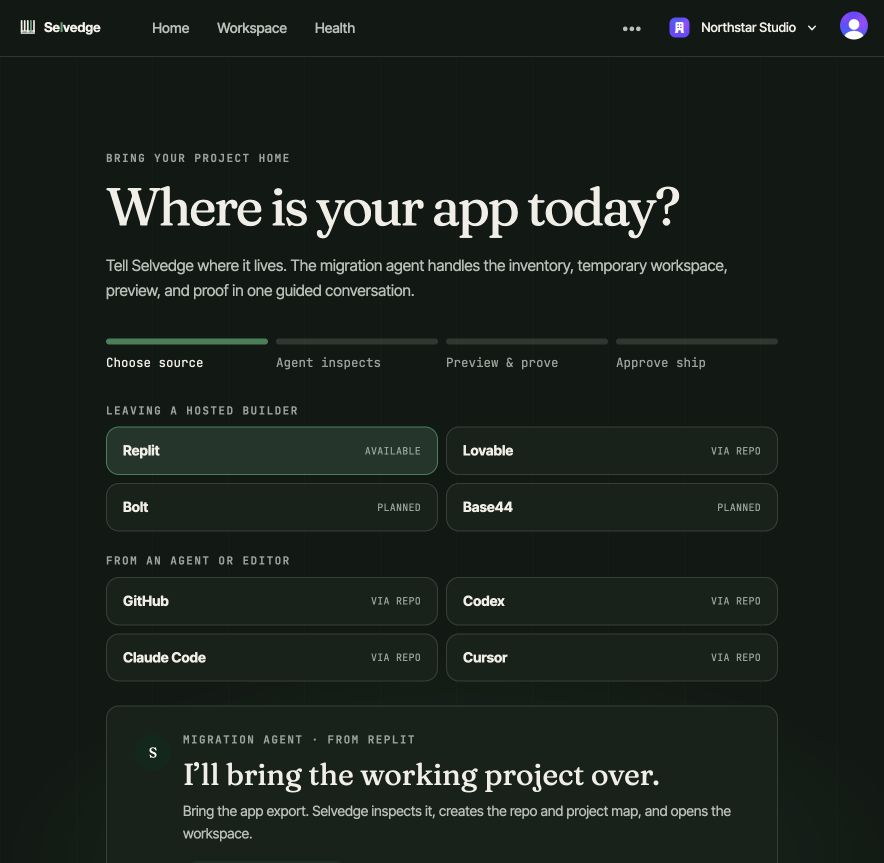
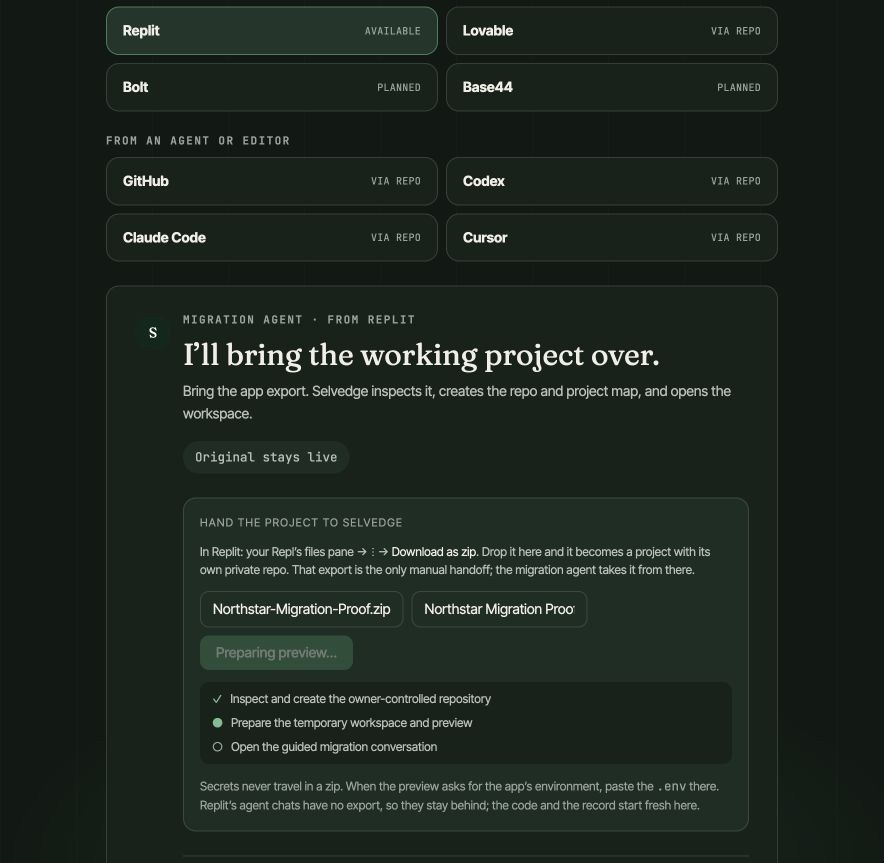
Support static hosted migration previews

diff --git a/src/server/connectors/railway/provision.ts b/src/server/connectors/railway/provision.ts
@@ -11,7 +11,7 @@ import { railwayGql, type RailwayTarget } from './client.js';
  * a Vite/web package over API or utility packages. Independent verification
  * remains responsible for proving that the chosen surface actually works.
  */
-export const PREVIEW_START_COMMAND = `if node -e "const s=require('./package.json').scripts||{};process.exit(s.dev?0:1)"; then npm run dev; elif [ -f "artifacts/$SELVEDGE_PROJECT_ID/package.json" ]; then pnpm --dir "artifacts/$SELVEDGE_PROJECT_ID" run dev --port "$PORT"; else PREVIEW_DIR="$(node -e 'const fs=require("fs"),path=require("path");const root="artifacts";const found=fs.existsSync(root)?fs.readdirSync(root).flatMap((name)=>{const file=path.join(root,name,"package.json");try{const pkg=JSON.parse(fs.readFileSync(file,"utf8"));if(!pkg.scripts?.dev)return[];const vite=Boolean(pkg.dependencies?.vite||pkg.devDependencies?.vite);return[{dir:path.join(root,name),vite}]}catch{return[]}}).sort((a,b)=>Number(b.vite)-Number(a.vite)||a.dir.localeCompare(b.dir)):[];process.stdout.write(found[0]?.dir||"")')"; if [ -n "$PREVIEW_DIR" ]; then pnpm --dir "$PREVIEW_DIR" run dev --port "$PORT"; else echo 'No development start contract found' >&2; exit 1; fi; fi`;
+export const PREVIEW_START_COMMAND = `if node -e "const s=require('./package.json').scripts||{};process.exit(s.dev?0:1)"; then npm run dev; elif [ -f "artifacts/$SELVEDGE_PROJECT_ID/package.json" ]; then pnpm --dir "artifacts/$SELVEDGE_PROJECT_ID" run dev --port "$PORT"; else PREVIEW_DIR="$(node -e 'const fs=require("fs"),path=require("path");const root="artifacts";const found=fs.existsSync(root)?fs.readdirSync(root).flatMap((name)=>{const file=path.join(root,name,"package.json");try{const pkg=JSON.parse(fs.readFileSync(file,"utf8"));if(!pkg.scripts?.dev)return[];const vite=Boolean(pkg.dependencies?.vite||pkg.devDependencies?.vite);return[{dir:path.join(root,name),vite}]}catch{return[]}}).sort((a,b)=>Number(b.vite)-Number(a.vite)||a.dir.localeCompare(b.dir)):[];process.stdout.write(found[0]?.dir||"")')"; if [ -n "$PREVIEW_DIR" ]; then pnpm --dir "$PREVIEW_DIR" run dev --port "$PORT"; else STATIC_DIR="$(node -e 'const fs=require("fs");const dirs=["dist","build","out","public","."];process.stdout.write(dirs.find((dir)=>fs.existsSync(dir+"/index.html"))||"")')"; if [ -n "$STATIC_DIR" ]; then npx -y serve -l "tcp://0.0.0.0:$PORT" "$STATIC_DIR"; else echo 'No development start contract or static index found' >&2; exit 1; fi; fi; fi`;
 
 /**
  * The Railway WRITE side — creating a service for an app Selvedge built, giving

diff --git a/src/server/preview/railway.ts b/src/server/preview/railway.ts
@@ -15,7 +15,7 @@ function decode(id: string): DurableId { return JSON.parse(Buffer.from(id, 'base
 // Railpack runs this override in a shell, so keep all common JS managers local
 // to the temporary service instead of teaching Selvedge a project-specific
 // package-manager preference.
-export const PREVIEW_INSTALL_COMMAND = "if [ -f pnpm-lock.yaml ]; then pnpm install --no-frozen-lockfile --prefer-offline; elif [ -f yarn.lock ]; then yarn install --no-immutable; else npm install; fi";
+export const PREVIEW_INSTALL_COMMAND = "if [ -f pnpm-lock.yaml ]; then pnpm install --no-frozen-lockfile --prefer-offline; elif [ -f yarn.lock ]; then yarn install --no-immutable; else npm install; fi; mkdir -p node_modules";
 
 function previewVariables(projectId: string, input: Record<string, string>): Record<string, string> {
   return { NODE_ENV: 'development', PORT: '3000', BASE_PATH: '/', ...input, RAILPACK_INSTALL_CMD: PREVIEW_INSTALL_COMMAND, SELVEDGE_PROJECT_ID: projectId };

diff --git a/test/connectors/railway/client.test.ts b/test/connectors/railway/client.test.ts
@@ -193,6 +193,8 @@ describe('railway preview provisioning — pins the disposable ref and dev comma
     });
     expect(PREVIEW_START_COMMAND).toContain('pkg.devDependencies?.vite');
     expect(PREVIEW_START_COMMAND).toContain('pnpm --dir "$PREVIEW_DIR" run dev');
+    expect(PREVIEW_START_COMMAND).toContain('STATIC_DIR');
+    expect(PREVIEW_START_COMMAND).toContain('npx -y serve');
   });
 
   it('deploys the exact disposable commit SHA', async () => {
